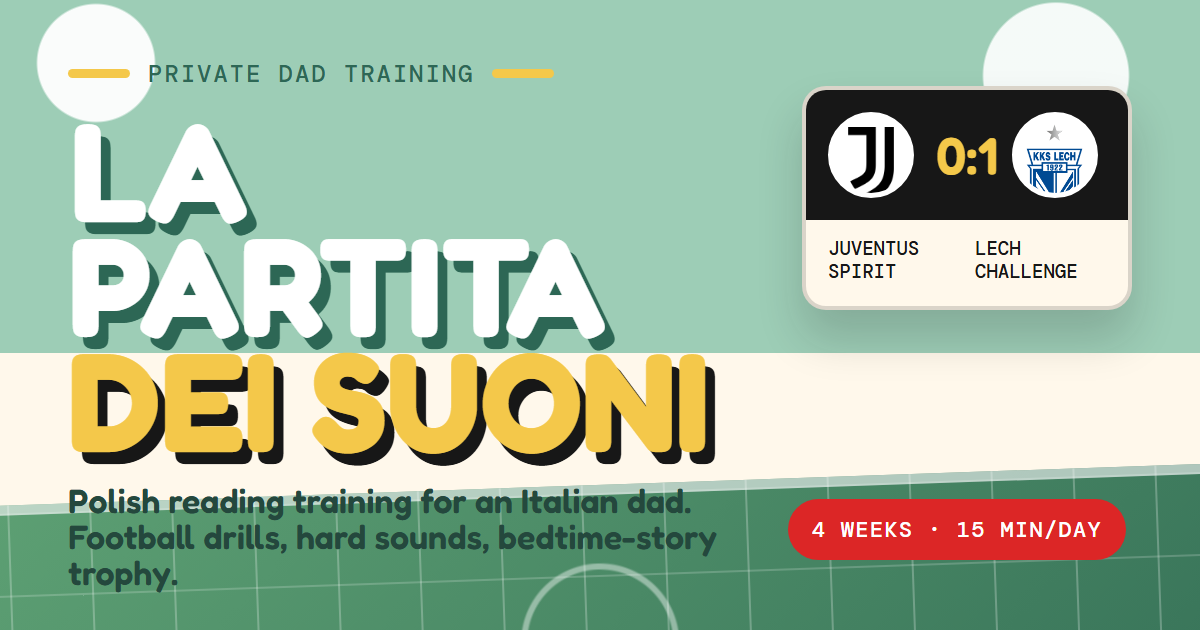
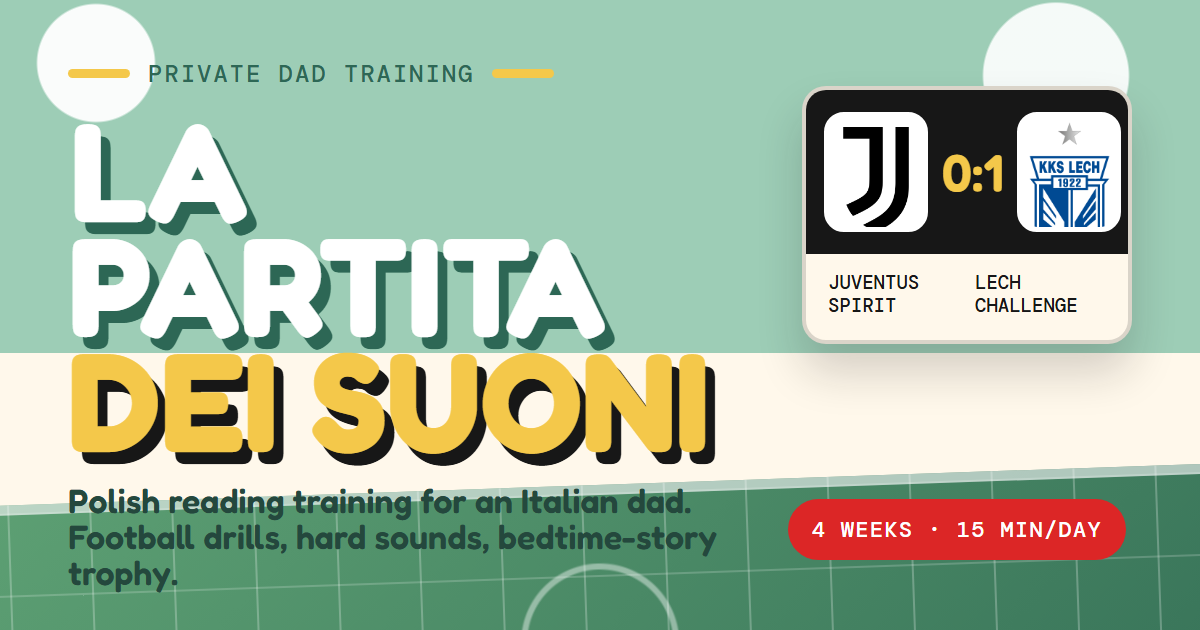
Add files via upload

Changed region(s): [[0.6475, 0.181, 0.9558, 0.573]]

diff --git a/index.html b/index.html
@@ -152,7 +152,7 @@
     align-items: center;
     background: var(--ink);
     color: white;
-    padding: 0.9rem;
+    padding: 1rem;
     gap: 0.8rem;
   }
 
@@ -180,9 +180,9 @@
   }
 
   .crest {
-    width: 4.7rem;
-    aspect-ratio: 1;
-    border-radius: 50%;
+    width: 5.2rem;
+    height: 6.2rem;
+    border-radius: 18px;
     display: grid;
     place-items: center;
     border: 3px solid white;
@@ -192,9 +192,17 @@
   }
 
   .crest img {
-    width: 82%;
-    height: 82%;
+    display: block;
+    width: auto;
+    height: auto;
+    max-width: 88%;
+    max-height: 88%;
     object-fit: contain;
+  }
+
+  .crest img[src*="lech"] {
+    max-width: 94%;
+    max-height: 94%;
   }
 
   .fallback-mark {
@@ -615,7 +623,8 @@
     }
 
     .crest {
-      width: 3.8rem;
+      width: 4.8rem;
+      height: 5.7rem;
     }
 
     main {

diff --git a/og-derby-wymowy.html b/og-derby-wymowy.html
@@ -105,7 +105,7 @@
     grid-template-columns: 1fr auto 1fr;
     gap: 14px;
     align-items: center;
-    padding: 22px;
+    padding: 22px 18px;
     background: #171717;
     color: white;
   }
@@ -115,9 +115,9 @@
     line-height: 1;
   }
   .crest {
-    width: 86px;
-    height: 86px;
-    border-radius: 50%;
+    width: 104px;
+    height: 120px;
+    border-radius: 20px;
     border: 5px solid white;
     overflow: hidden;
     display: grid;
@@ -127,13 +127,16 @@
     font-weight: 700;
   }
   .crest img {
-    width: 78%;
-    height: 78%;
+    display: block;
+    width: auto;
+    height: auto;
+    max-width: 84%;
+    max-height: 84%;
     object-fit: contain;
   }
   .crest.lech img {
-    width: 90%;
-    height: 90%;
+    max-width: 96%;
+    max-height: 96%;
   }
   .labels {
     display: grid;
